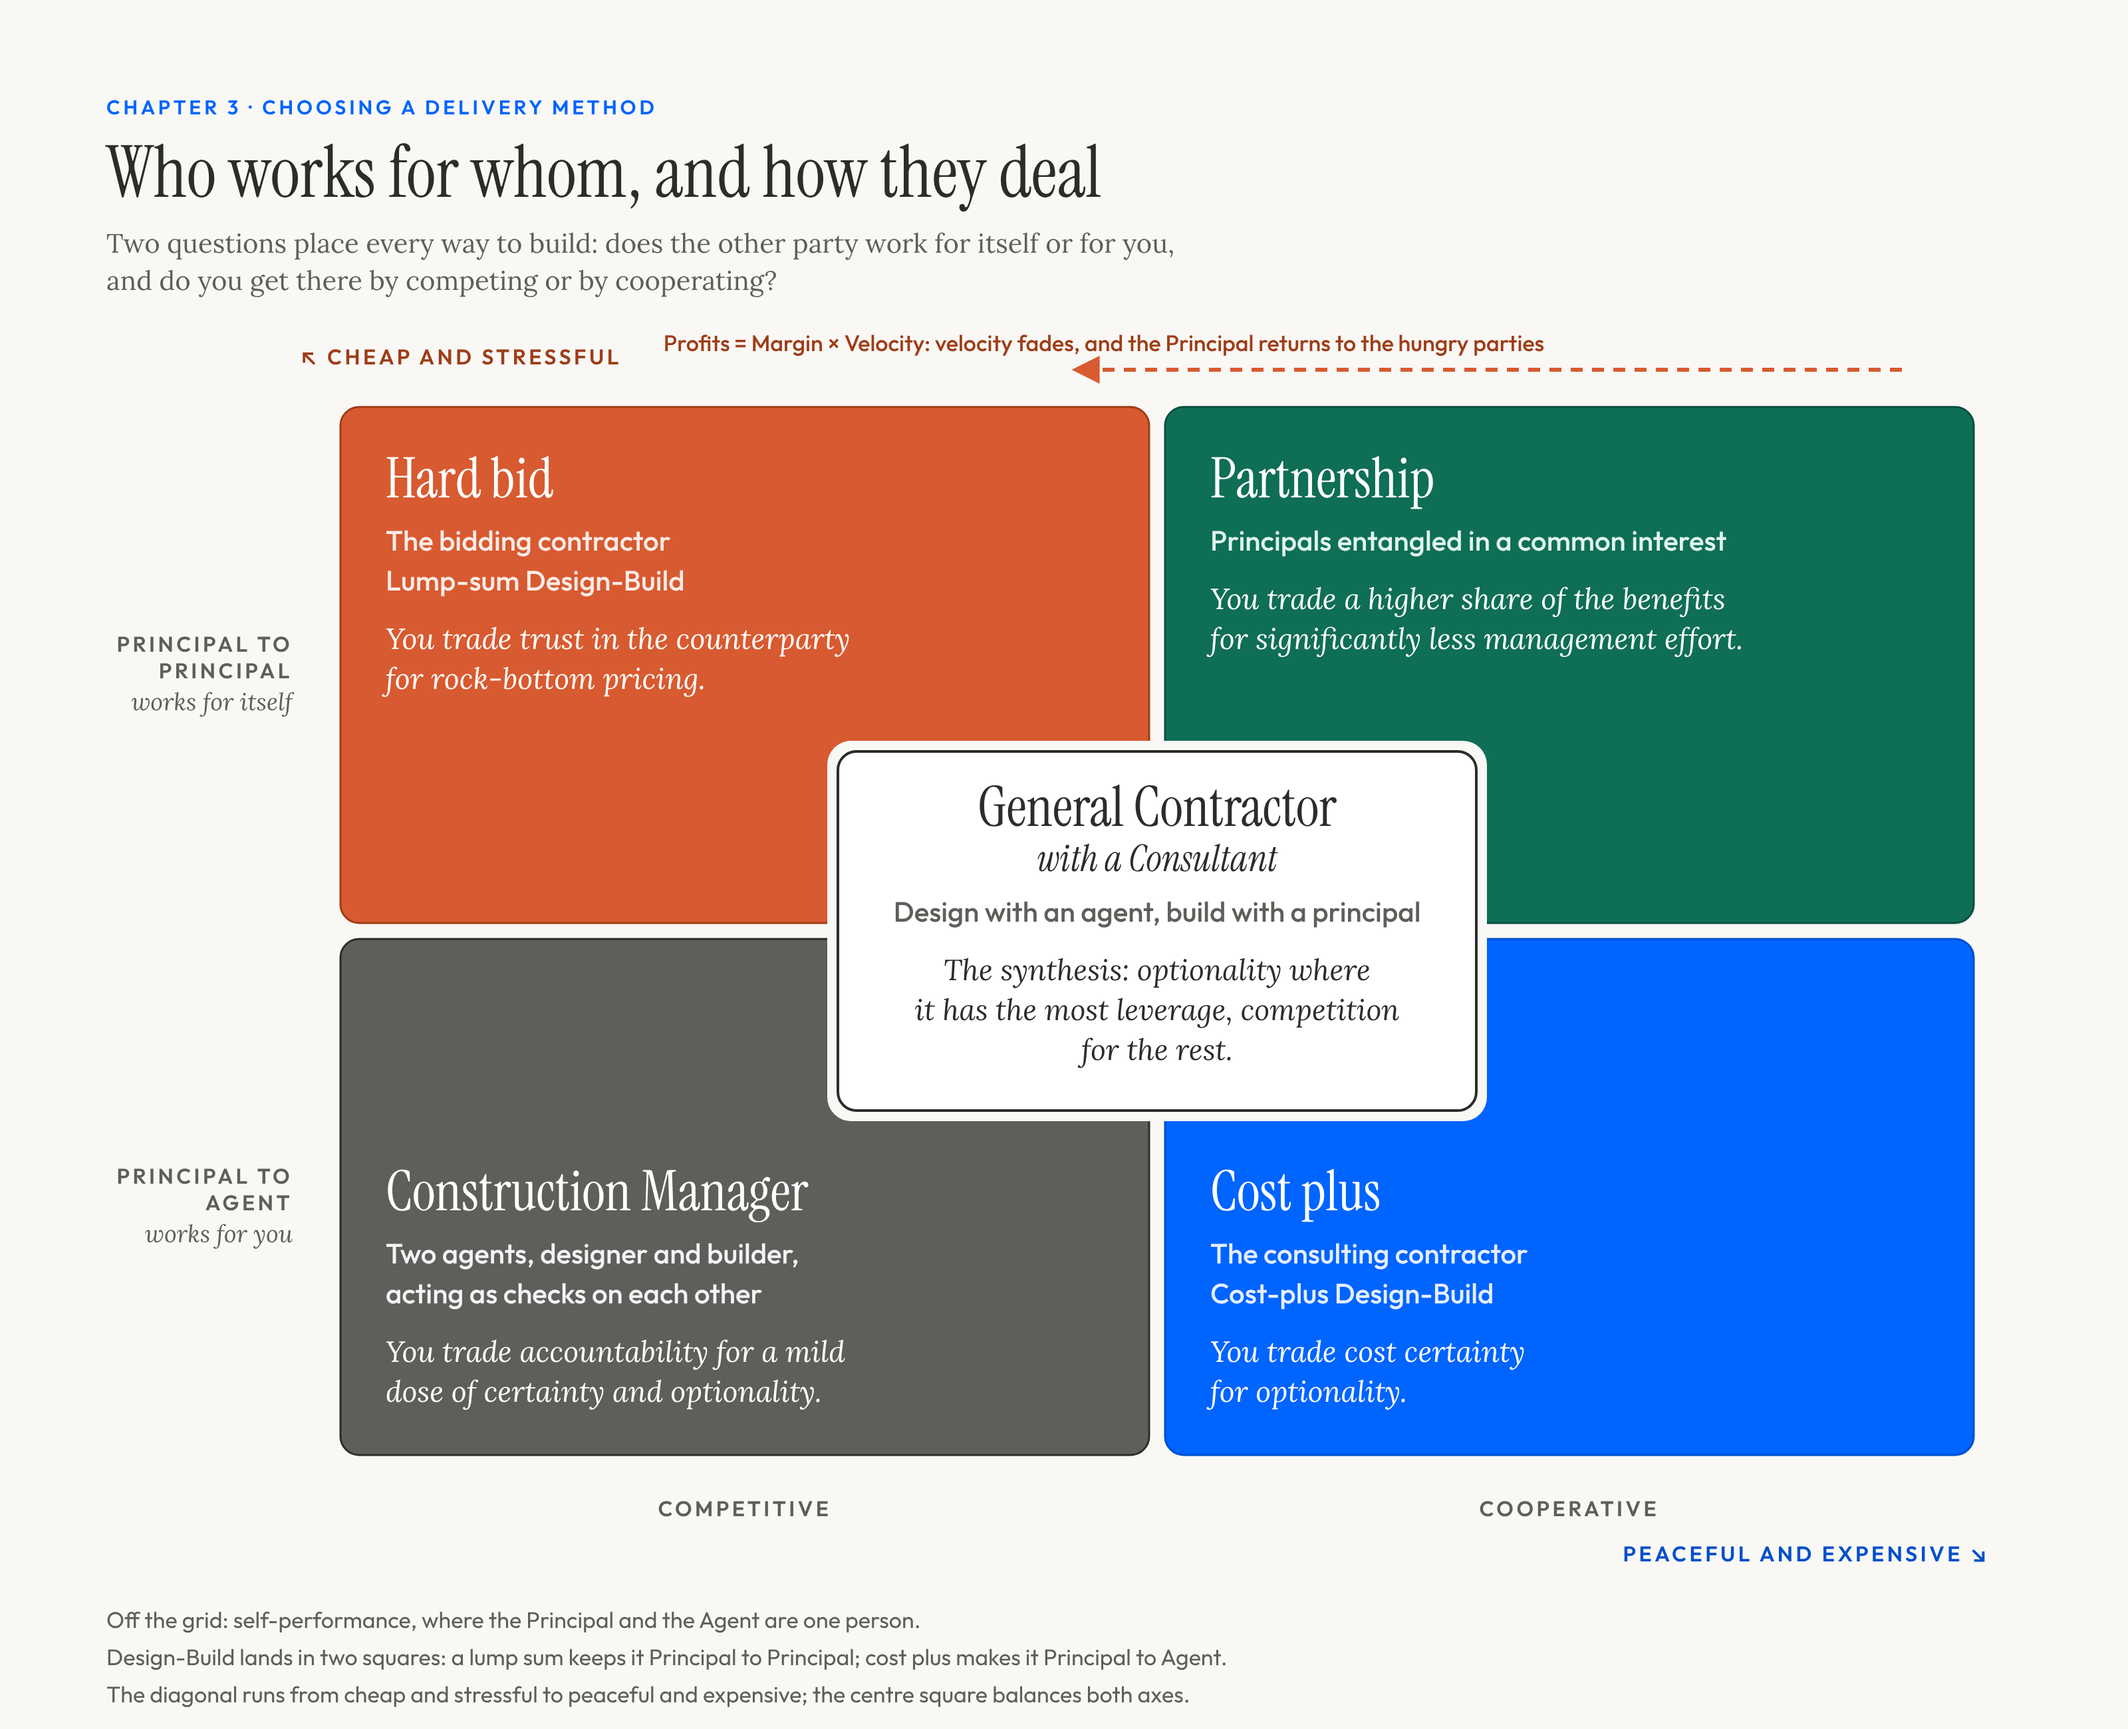
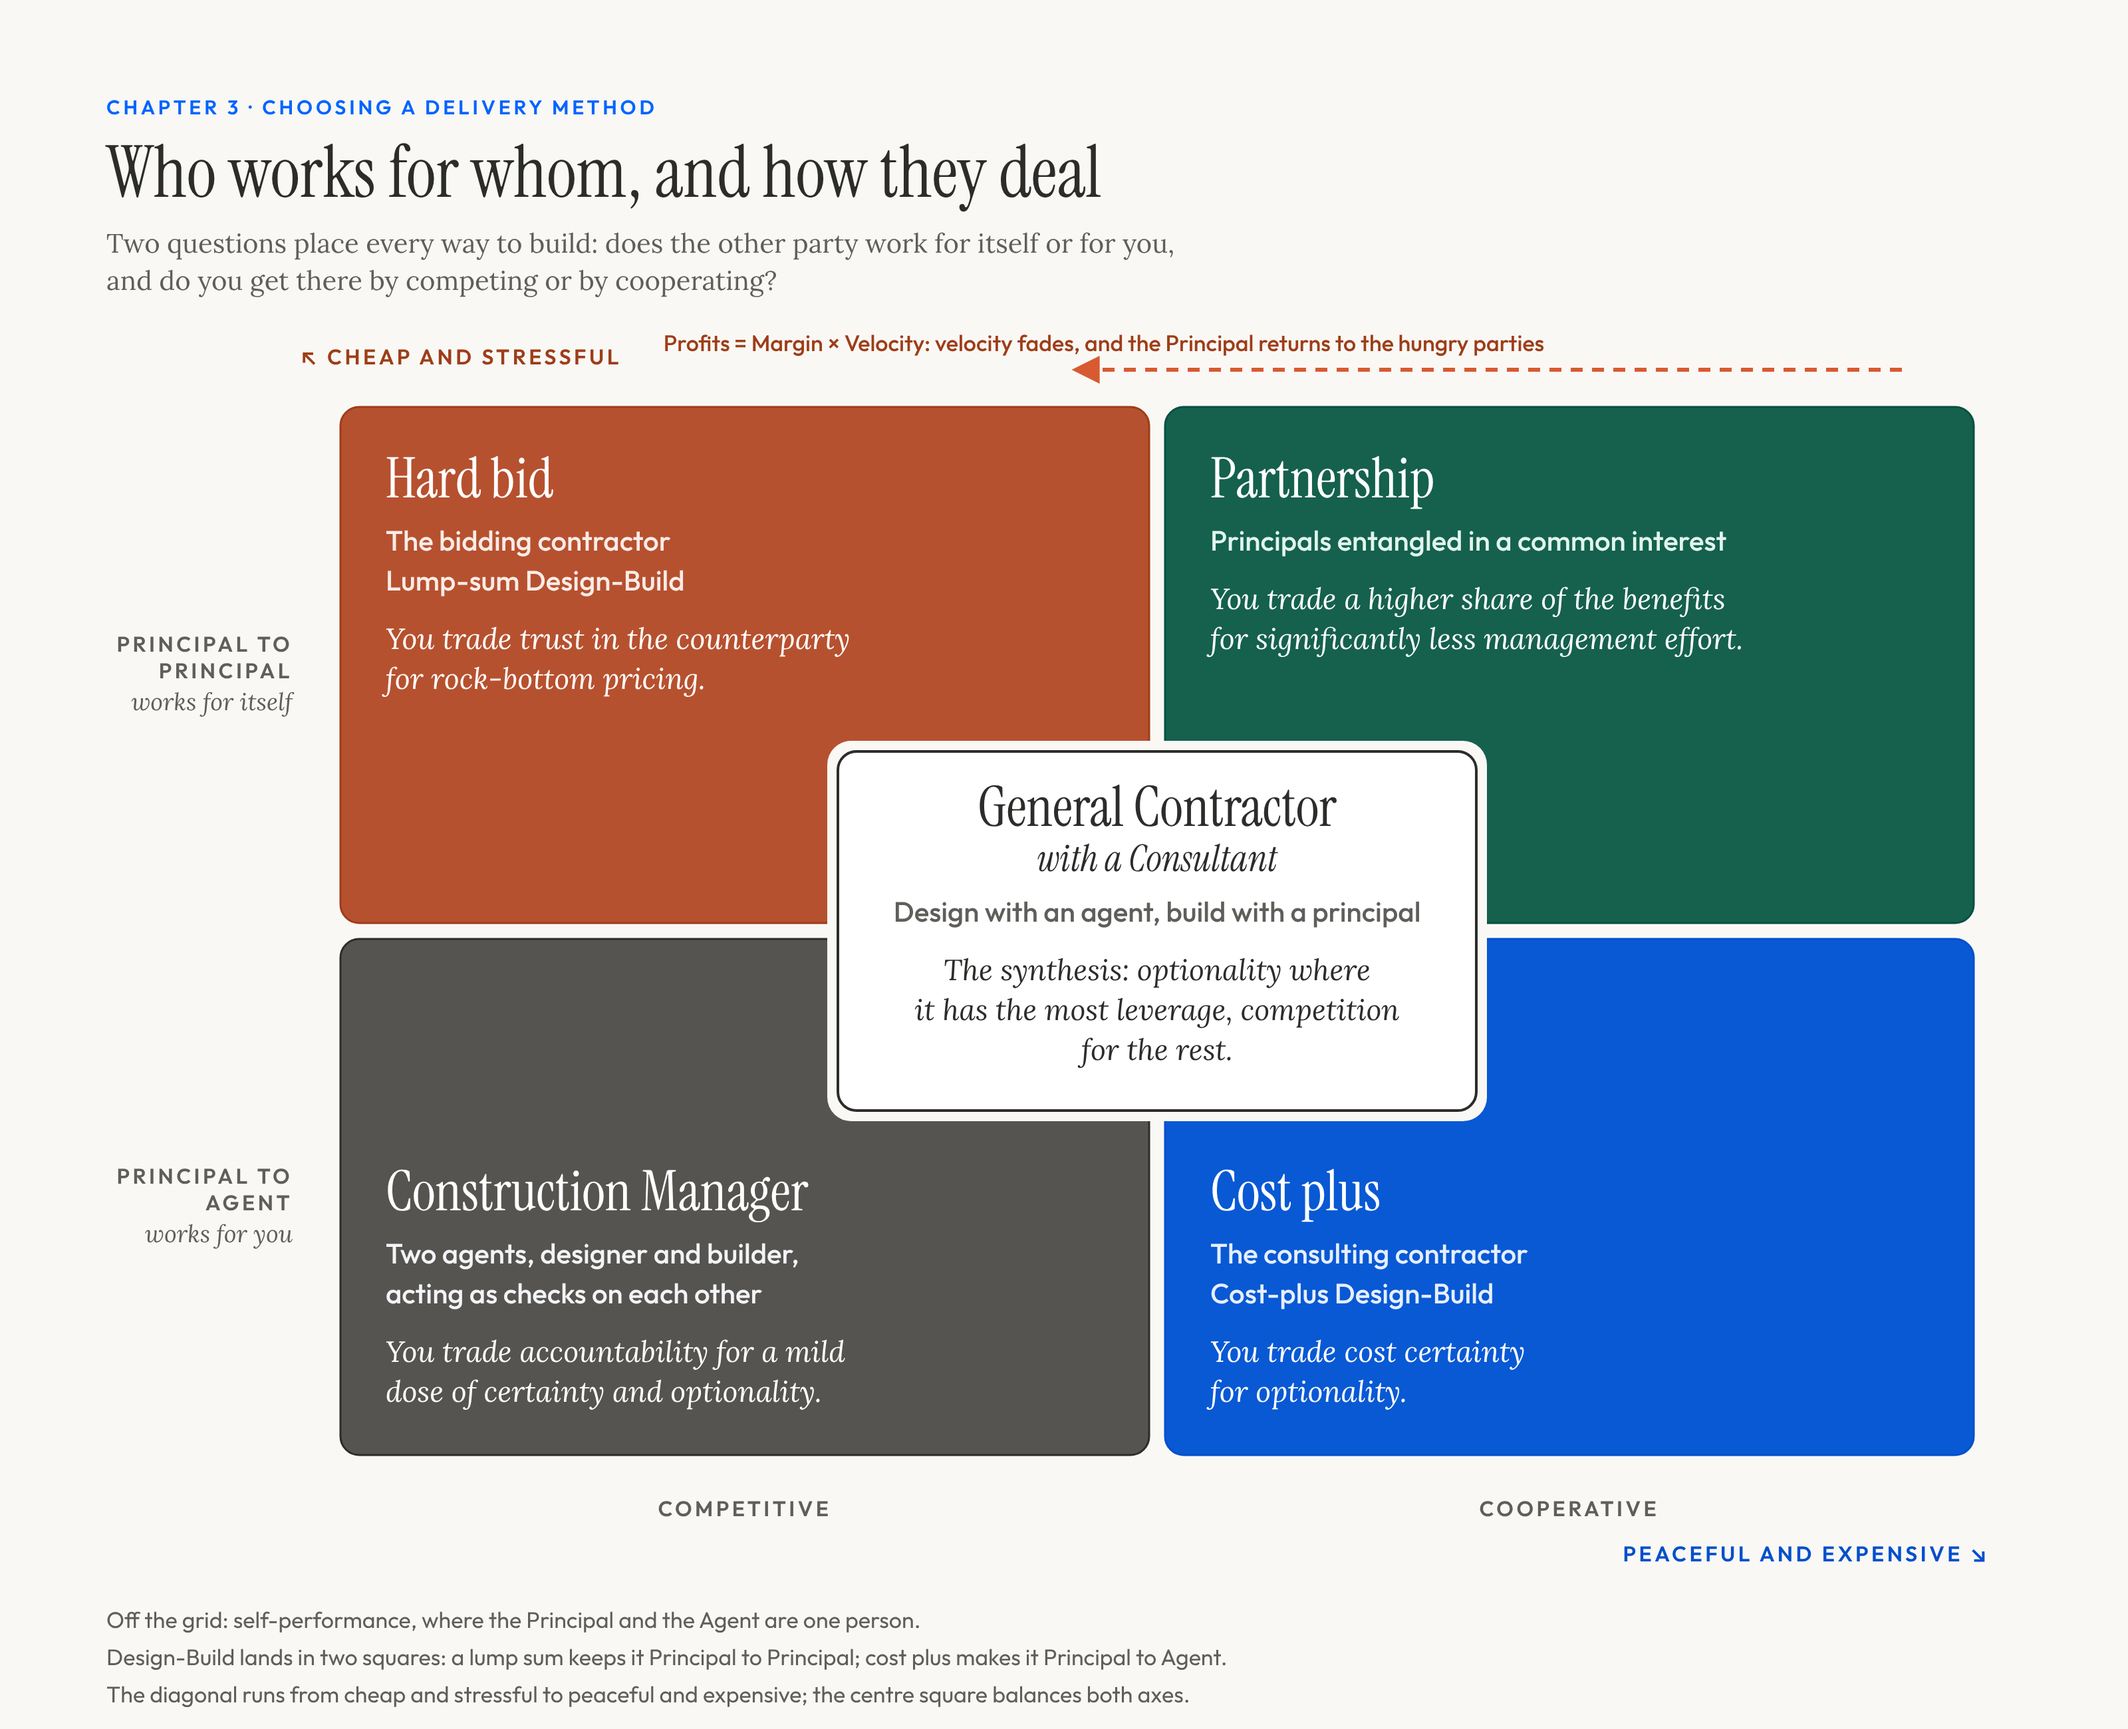
Chapter 3 figure: keep the original 2x2, darken its four fills
Andre: keep the framing simple; only darken the colours to match the
stained-glass figures. Fills move 20% toward the lead colour. Drops the
window redraw.

Claude-Session: https://claude.ai/code/session_01JEzVpeTMt5VWXjSqoR9gNF

Changed region(s): [[0.1562, 0.2181, 0.5625, 0.5608], [0.5312, 0.5296, 0.9375, 0.8412]]

diff --git a/images/delivery_methods_2x2.py b/images/delivery_methods_2x2.py
@@ -16,18 +16,26 @@ W, H = 1600, 1300
 X0, Y0, QW, QH = 250, 300, 620, 400          # grid origin and quadrant size
 XM, YM = X0 + QW, Y0 + QH                    # the axes cross here
 
+# Pane fills darkened toward the lead colour of the stained-glass figures
+# (failure_modes_glass.py, second_opinion.py) so the book's figures share one tone.
+def _mix(a, b, f):
+    A = [int(a[i:i+2], 16) for i in (1, 3, 5)]; B = [int(b[i:i+2], 16) for i in (1, 3, 5)]
+    return "#%02x%02x%02x" % tuple(round(A[i] + (B[i] - A[i]) * f) for i in range(3))
+DARK = 0.2
+D = {k: _mix(C[k], C["ink"], DARK) for k in ("acc", "sec", "ink2", "action")}
+
 # (col, row, fill, stroke, label colour, name, examples, trade lines, text top offset)
 QUADS = [
-    (0, 0, C["acc"], C["acc_d"], C["acc_t"], "Hard bid",
+    (0, 0, D["acc"], C["acc_d"], C["acc_t"], "Hard bid",
      ["The bidding contractor", "Lump-sum Design-Build"],
      ["You trade trust in the counterparty", "for rock-bottom pricing."], 44),
-    (1, 0, C["sec"], C["sec_d"], C["sec_t"], "Partnership",
+    (1, 0, D["sec"], C["sec_d"], C["sec_t"], "Partnership",
      ["Principals entangled in a common interest"],
      ["You trade a higher share of the benefits", "for significantly less management effort."], 44),
-    (0, 1, C["ink2"], C["ink"], C["muted"], "Construction Manager",
+    (0, 1, D["ink2"], C["ink"], C["muted"], "Construction Manager",
      ["Two agents, designer and builder,", "acting as checks on each other"],
      ["You trade accountability for a mild", "dose of certainty and optionality."], 180),
-    (1, 1, C["action"], C["action_p"], C["action_t"], "Cost plus",
+    (1, 1, D["action"], C["action_p"], C["action_t"], "Cost plus",
      ["The consulting contractor", "Cost-plus Design-Build"],
      ["You trade cost certainty", "for optionality."], 180),
 ]
